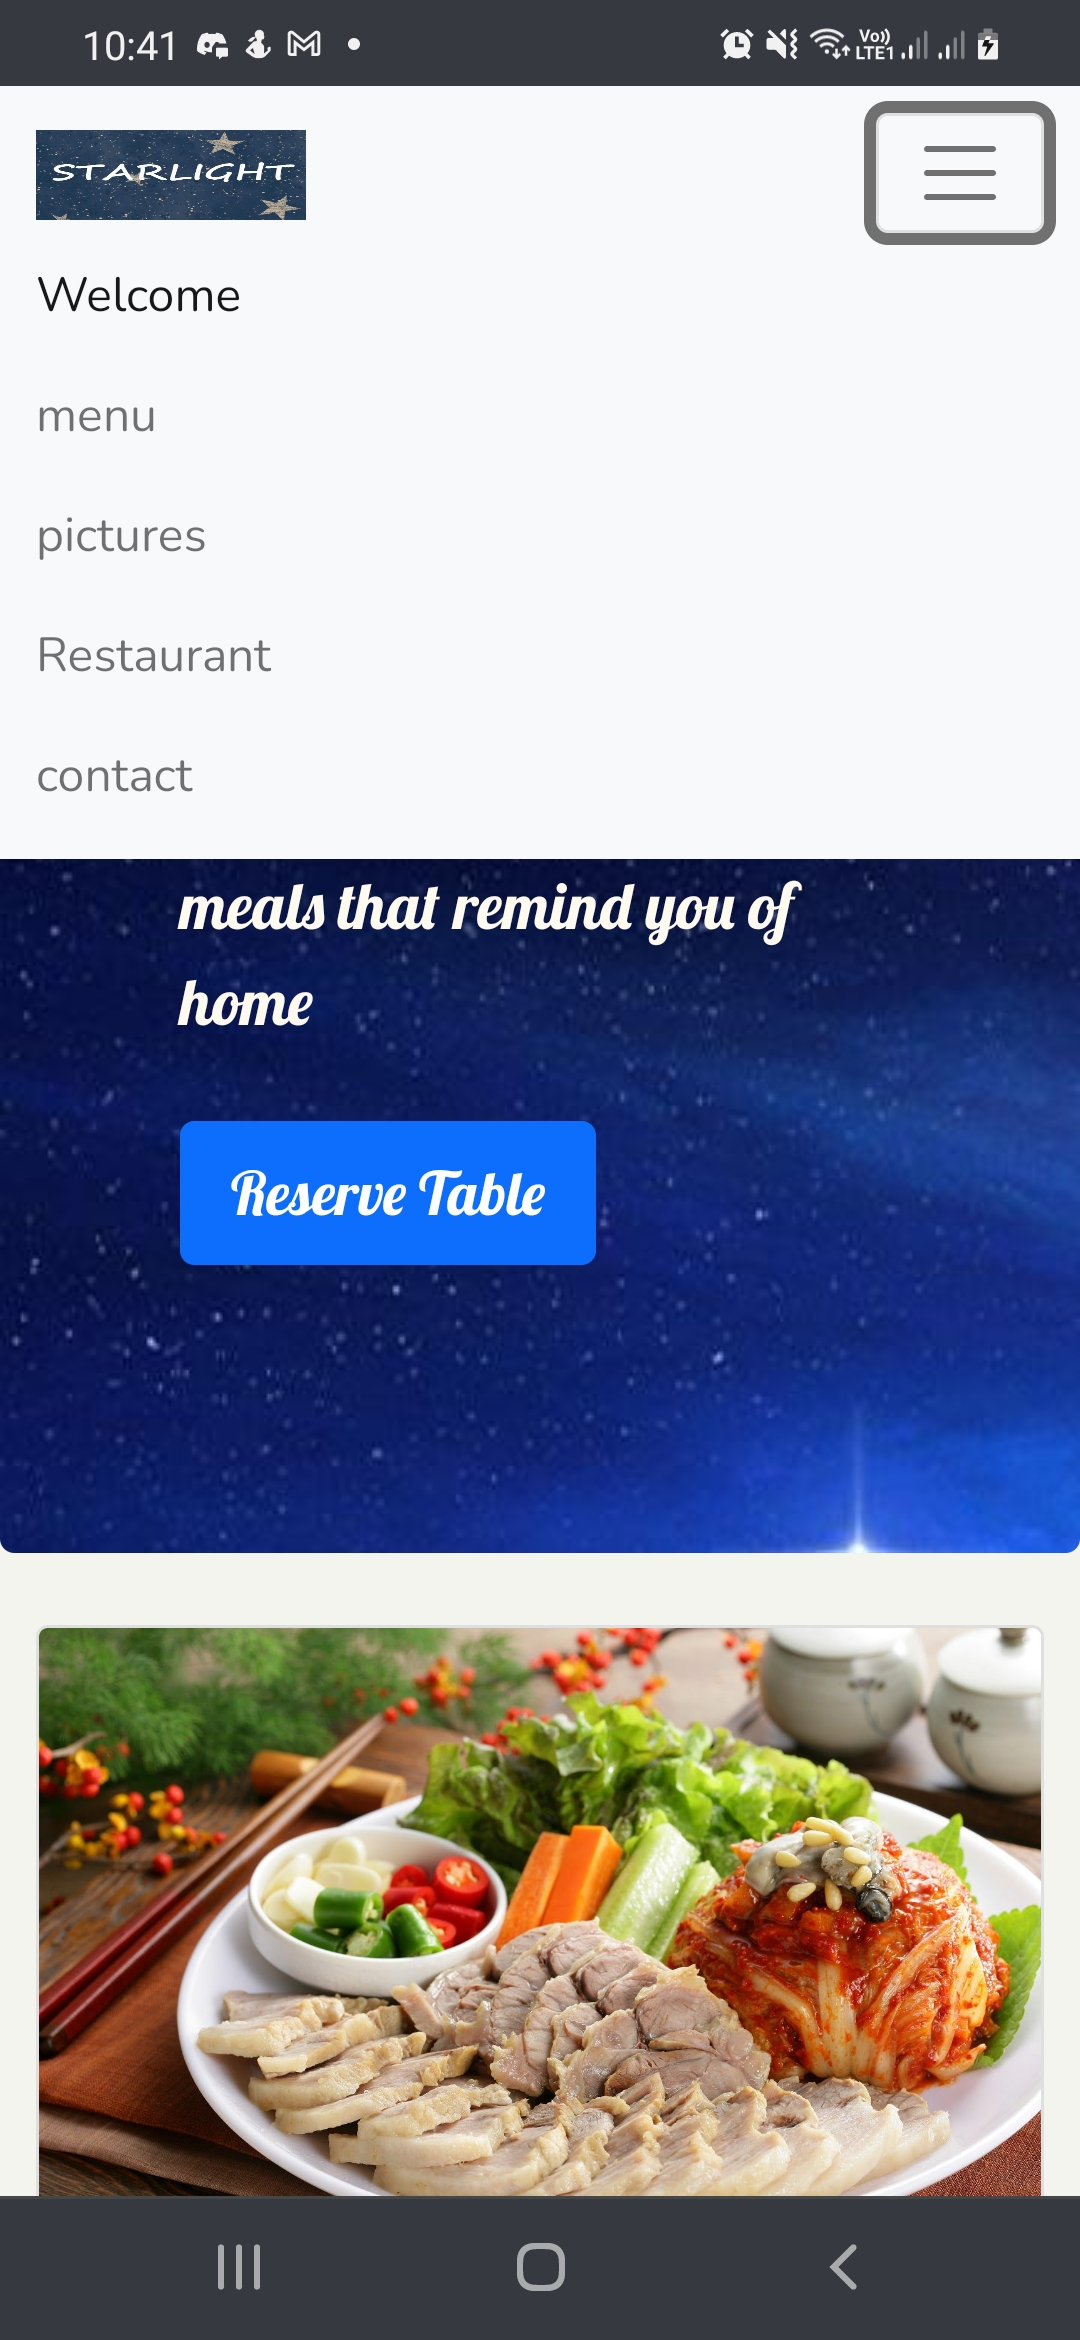
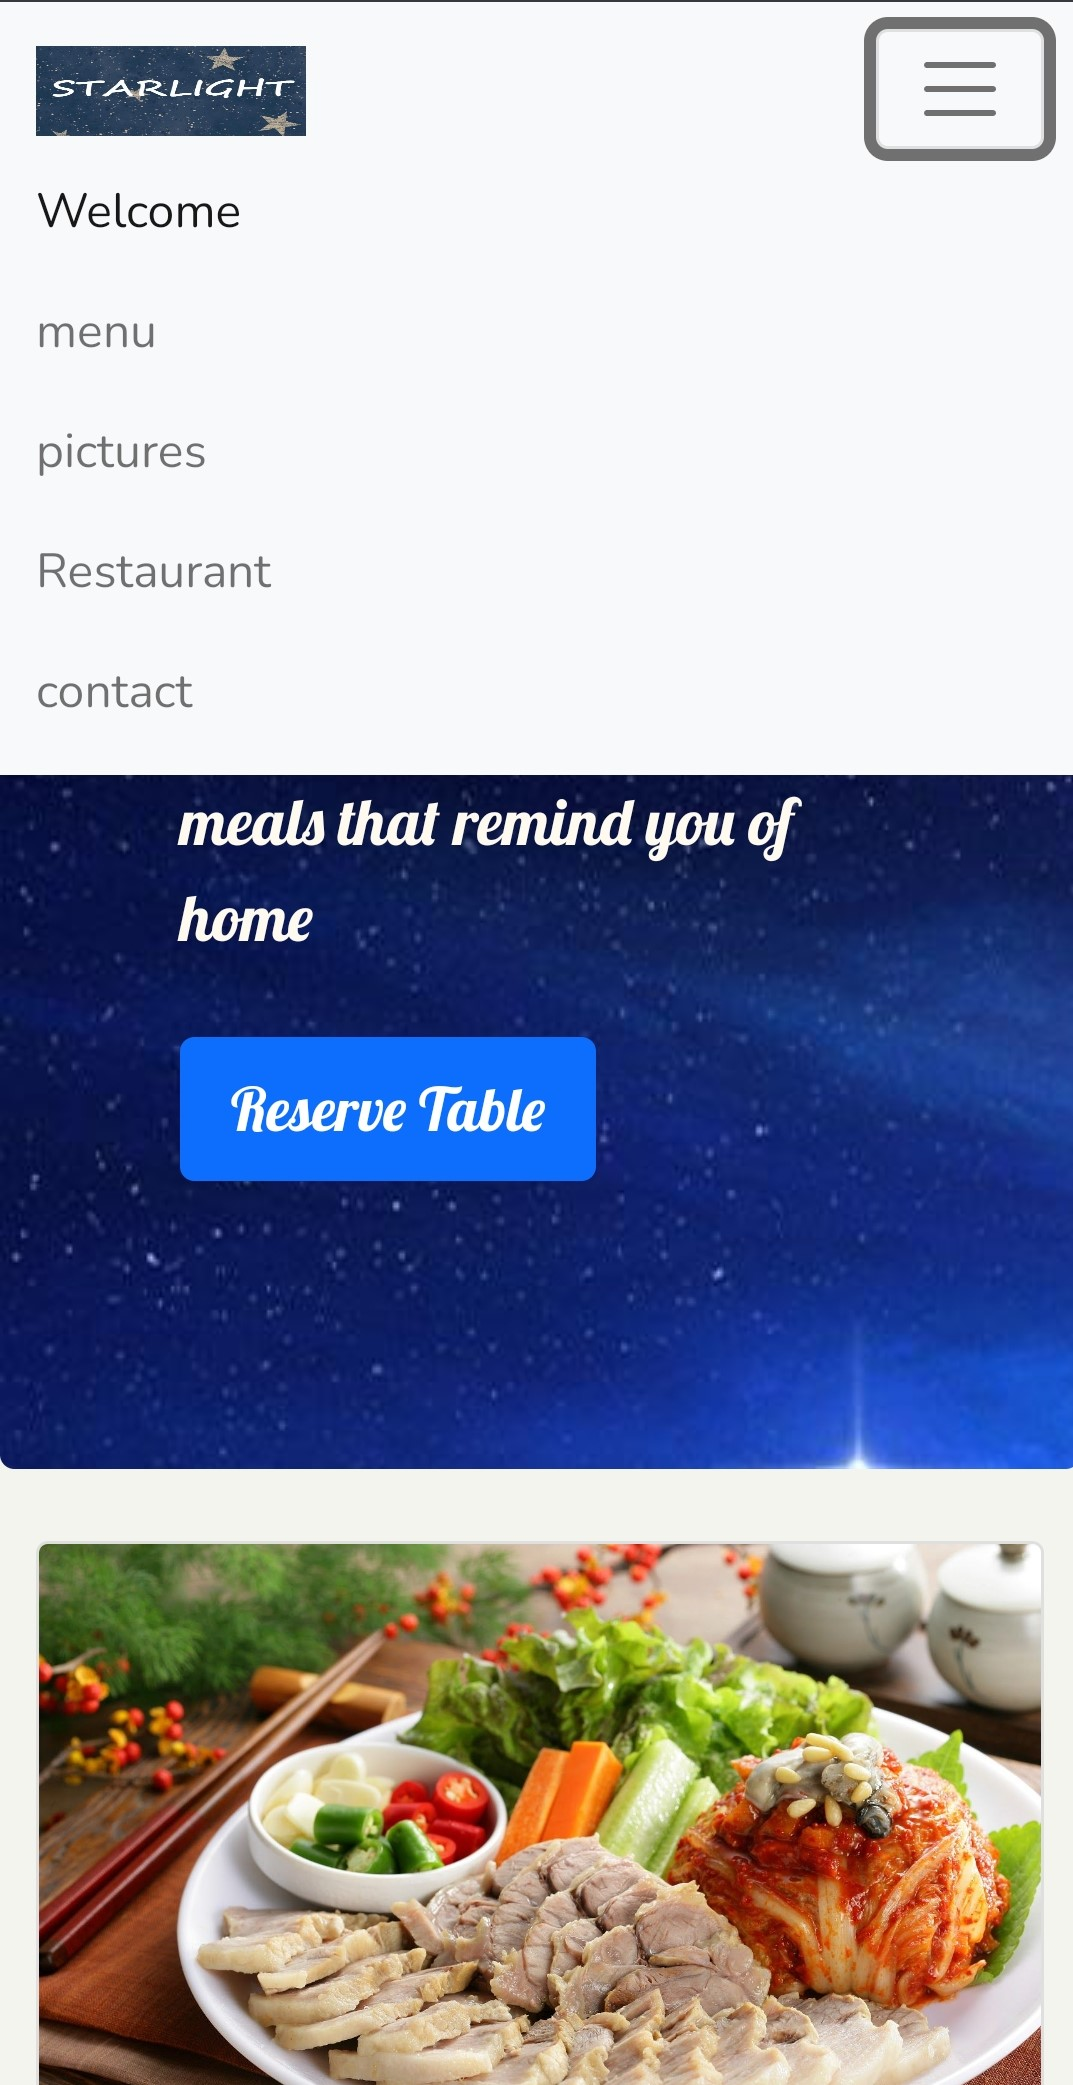
changing size of the image trial and error

diff --git a/README.md b/README.md
@@ -22,6 +22,9 @@ Yes, the website is responsive!
 ### Screenshots
 ![welcome page small version](/allpictures/screenshots/welcomesv.jpg)
 ![welcome page small version navbar](/allpictures/screenshots/welcomenavsv.jpg)
+![welcome page medium version navbar](/allpictures/screenshots/welcomemd.jpg)
+<img src="./allpictures/screenshots/welcomemd.png" width="200" height="200" />
+
 
 
 
